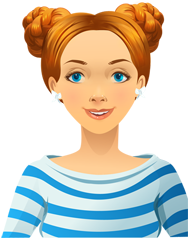
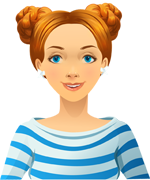
Feature #44 My Profile: menstruation period support
- BPSettingsProfileViewController: display menstruation period
- BPTextField: number property (menstruation indicator value)

diff --git a/BabyPlanner/Classes/Controller/Settings/BPSettingsProfileViewController/BPSettingsProfileViewController.m b/BabyPlanner/Classes/Controller/Settings/BPSettingsProfileViewController/BPSettingsProfileViewController.m
@@ -17,10 +17,11 @@
 #import "NSDate-Utilities.h"
 
 #define BPProfileControlsSpacing 5.f
-#define BPProfileControlsMargin 10.f
-#define BPProfileLabelWidth 90.f
+#define BPProfileControlsMargin 8.f
+#define BPProfileLabelWidth 100.f
 #define BPProfileLabelSmallWidth 40.f
 #define BPProfileTextFieldSmallWidth 100.f
+#define BPProfileMenstruationTextFieldWidth 153.f
 
 #define BPPregnancyPeriod 280
 
@@ -32,12 +33,17 @@
 @property (nonatomic, strong) BPLabel *heightLabel;
 @property (nonatomic, strong) BPLabel *kgLabel;
 @property (nonatomic, strong) BPLabel *cmLabel;
+
+@property (nonatomic, strong) BPLabel *menstruationLabel;
+@property (nonatomic, strong) BPLabel *daysLabel;
+
 @property (nonatomic, strong) BPLabel *pregnancyLabel;
 
 @property (nonatomic, strong) BPTextField *nameTextField;
 @property (nonatomic, strong) BPTextField *birthdayTextField;
 @property (nonatomic, strong) BPTextField *weightTextField;
 @property (nonatomic, strong) BPTextField *heightTextField;
+@property (nonatomic, strong) BPTextField *menstruationTextField;
 
 @property (nonatomic, strong) UIButton *pregnancyButton;
 
@@ -73,7 +79,7 @@
 	// Do any additional setup after loading the view.
 
     UIImageView *bubbleView = [[UIImageView alloc] initWithImage:[BPUtils imageNamed:@"settings_myprofile_bubble"]];
-    [self.view addSubview:bubbleView];
+//    [self.view addSubview:bubbleView];
     
     self.selectLabel = [[UILabel alloc] init];
     self.selectLabel.backgroundColor = [UIColor clearColor];
@@ -81,10 +87,10 @@
     self.selectLabel.textColor = RGB(0, 0, 0);
     self.selectLabel.textAlignment = NSTextAlignmentCenter;
     self.selectLabel.numberOfLines = 1;
-    [self.view addSubview:self.selectLabel];
+//    [self.view addSubview:self.selectLabel];
 
     self.girlView = [[UIImageView alloc] initWithImage:[BPUtils imageNamed:@"settings_myprofile_girl"]];
-    self.girlView.frame = CGRectMake(self.view.bounds.size.width - self.girlView.image.size.width, MAX(260.f, self.view.bounds.size.height - self.girlView.image.size.height), self.girlView.image.size.width, self.girlView.image.size.height);
+    self.girlView.frame = CGRectMake(floorf(self.view.bounds.size.width/2 - self.girlView.image.size.width/2), MAX(260.f, self.view.bounds.size.height - self.girlView.image.size.height), self.girlView.image.size.width, self.girlView.image.size.height);
     [self.view addSubview:self.girlView];
     
     bubbleView.frame = CGRectMake(25.f, self.girlView.frame.origin.y + 24.f, bubbleView.image.size.width, bubbleView.image.size.height);
@@ -166,6 +172,18 @@
     [self.lastMenstruationButton addTarget:self action:@selector(selectButtonTapped:) forControlEvents:UIControlEventTouchUpInside];
     top += self.lastMenstruationButton.frame.size.height + BPProfileControlsSpacing;
     
+    left = BPProfileControlsMargin;
+    self.menstruationLabel = [[BPLabel alloc] initWithFrame:CGRectMake(left, top, BPProfileLabelWidth, BPTextFieldHeigth)];
+    left += self.menstruationLabel.frame.size.width + BPProfileControlsSpacing;
+    
+    self.menstruationTextField = [[BPTextField alloc] initWithFrame:CGRectMake(left, top, BPProfileMenstruationTextFieldWidth, BPTextFieldHeigth)];
+    self.menstruationTextField.delegate = self;
+    left += self.menstruationTextField.frame.size.width + BPProfileControlsMargin;
+    
+    self.daysLabel = [[BPLabel alloc] initWithFrame:CGRectMake(left, top, self.view.frame.size.width - left - BPProfileControlsMargin, BPTextFieldHeigth)];
+    
+    top += self.menstruationLabel.frame.size.height + BPProfileControlsSpacing;
+    
     UIImage *checkBoxNormalImage = [BPUtils imageNamed:@"checkbox_normal"];
     UIImage *checkBoxSelectedImage = [BPUtils imageNamed:@"checkbox_selected"];
     
@@ -206,6 +224,10 @@
     [self.view addSubview:self.lengthOfCycleButton];
     [self.view addSubview:self.lastMenstruationButton];
     
+    [self.view addSubview:self.menstruationLabel];
+    [self.view addSubview:self.menstruationTextField];
+    [self.view addSubview:self.daysLabel];
+    
     [self.view addSubview:self.pregnancyLabel];
     [self.view addSubview:self.pregnancyButton];
     
@@ -241,6 +263,9 @@
     self.lengthOfCycleButton.subtitleLabel.text = BPLocalizedString(@"Length of my cycle");
     self.lastMenstruationButton.subtitleLabel.text = BPLocalizedString(@"Last menstruation");
 
+    self.menstruationLabel.text = BPLocalizedString(@"Menstruation");
+    self.daysLabel.text = BPLocalizedString(@"days");
+    
     self.pregnancyLabel.text = BPLocalizedString(@"Pregnancy");
 
     self.lastOvulationButton.subtitleLabel.text = BPLocalizedString(@"Ovulation");
@@ -260,6 +285,8 @@
     
     NSDate *lastMenstruationDate = sharedSettings[BPSettingsProfileLastMenstruationDateKey];
     [self.lastMenstruationButton setTitle:[BPUtils shortStringFromDate:lastMenstruationDate] forState:UIControlStateNormal];
+    
+    self.menstruationTextField.number = [sharedSettings[BPSettingsProfileMenstruationPeriodKey] unsignedIntegerValue];
     
     self.pregnancyButton.selected = [sharedSettings[BPSettingsProfileIsPregnantKey] boolValue];
     
@@ -296,6 +323,9 @@
     } else if (textField == self.heightTextField) {
         self.pickerView.valuePickerMode = BPValuePickerModeHeight;
         self.pickerView.value = sharedSettings[BPSettingsProfileHeightKey] ? : @0;
+    } else if (textField == self.menstruationTextField) {
+        self.pickerView.valuePickerMode = BPValuePickerModeMenstruationPeriod;
+        self.pickerView.value = sharedSettings[BPSettingsProfileMenstruationPeriodKey];
     }
     
     if ([self.nameTextField isFirstResponder])
@@ -354,6 +384,9 @@
             break;
         case BPValuePickerModeMenstruationLength:
             sharedSettings[BPSettingsProfileLengthOfCycleKey] = self.pickerView.value;
+            break;
+        case BPValuePickerModeMenstruationPeriod:
+            sharedSettings[BPSettingsProfileMenstruationPeriodKey] = self.pickerView.value;
             break;
         case BPValuePickerModeLastMenstruationDate:
             sharedSettings[BPSettingsProfileLastMenstruationDateKey] = self.pickerView.value;

diff --git a/BabyPlanner/Classes/View/BPTextField/BPTextField.m b/BabyPlanner/Classes/View/BPTextField/BPTextField.m
@@ -11,6 +11,12 @@
 
 //#define USE_FIXED_BOUND
 
+@interface BPTextField()
+
+@property (nonatomic, strong) UIImageView *indicatorView;
+
+@end
+
 @implementation BPTextField
 
 - (void)setup
@@ -76,5 +82,39 @@
 //    [self.textColor setFill];
 //    [self.placeholder drawInRect:rect withFont:self.font lineBreakMode:NSLineBreakByTruncatingTail alignment:self.textAlignment];
 //}
+
+- (void)setNumber:(NSUInteger)number
+{
+    DLog(@"%u", number);
+    if (_number != number) {
+        _number = number;
+
+        self.text = nil;
+        [self setNeedsLayout];
+    }
+}
+
+- (void)layoutSubviews
+{
+    [super layoutSubviews];
+    
+    if (self.number) {
+        CGFloat inset = floorf(self.frame.size.height/2 - self.indicatorView.image.size.height/2);
+        self.indicatorView.frame = CGRectMake(inset, inset, self.number * self.indicatorView.image.size.width, self.indicatorView.image.size.height);
+    }
+    else
+        _indicatorView.frame = CGRectZero;
+}
+
+- (UIImageView *)indicatorView
+{
+    if (!_indicatorView) {
+        _indicatorView = [[UIImageView alloc] init];
+        _indicatorView.image = [[BPUtils imageNamed:@"textfield_menstruation_icon"] resizableImageWithCapInsets:UIEdgeInsetsZero];
+        [self addSubview:_indicatorView];
+    }
+    
+    return _indicatorView;
+}
 
 @end

diff --git a/BabyPlanner/Classes/Model/Settings/BPLanguageManager.m b/BabyPlanner/Classes/Model/Settings/BPLanguageManager.m
@@ -42,7 +42,6 @@ NSString *const BPLanguageDidChangeNotification = @"BPLanguageDidChangeNotificat
 
 - (void)setCurrentLanguage:(NSString *)aLanguage
 {
-    DLog();
     _currentLocale = nil;
 
     BPSettings *sharedSettings = [BPSettings sharedSettings];
@@ -51,7 +50,6 @@ NSString *const BPLanguageDidChangeNotification = @"BPLanguageDidChangeNotificat
 
 - (NSLocale *)currentLocale
 {
-    DLog();
     if (!_currentLocale)
         _currentLocale = [[NSLocale alloc] initWithLocaleIdentifier:self.currentLanguage];
     
@@ -66,7 +64,6 @@ NSString *const BPLanguageDidChangeNotification = @"BPLanguageDidChangeNotificat
 
 - (NSUInteger)currentMetric
 {
-    DLog();
     BPSettings *sharedSettings = [BPSettings sharedSettings];
     if (!sharedSettings[BPSettingsMetricKey])
         sharedSettings[BPSettingsMetricKey] = @([self.supportedLanguages indexOfObject:self.currentLanguage]);
@@ -76,7 +73,6 @@ NSString *const BPLanguageDidChangeNotification = @"BPLanguageDidChangeNotificat
 
 - (void)setCurrentMetric:(NSUInteger)aMetric
 {
-    DLog();
     BPSettings *sharedSettings = [BPSettings sharedSettings];
     sharedSettings[BPSettingsMetricKey] = @(aMetric);
 }

diff --git a/BabyPlanner/Classes/View/BPLabel/BPLabel.m b/BabyPlanner/Classes/View/BPLabel/BPLabel.m
@@ -14,7 +14,7 @@
 - (void)setup
 {
     self.backgroundColor = [UIColor clearColor];
-    self.font = [UIFont fontWithName:@"HelveticaNeue" size:16];
+    self.font = [UIFont fontWithName:@"HelveticaNeue" size:15];
     self.textColor = RGB(76, 86, 108);
     self.shadowColor = RGBA(255, 255, 255, 0.75f);
     self.shadowOffset = CGSizeMake(0, 1);

diff --git a/BabyPlanner/Classes/Additions/Macros.h b/BabyPlanner/Classes/Additions/Macros.h
@@ -27,6 +27,7 @@
 
 #define BPSettingsProfileLengthOfCycleKey           @"profile.lengthOfCycle"
 #define BPSettingsProfileLastMenstruationDateKey    @"profile.lastMenstruation"
+#define BPSettingsProfileMenstruationPeriodKey      @"profile.menstruationPeriod"
 
 #define BPSettingsProfileIsPregnantKey              @"profile.isPregnant"
 

diff --git a/BabyPlanner/Classes/View/BPValuePicker/BPMenstruationPicker.m b/BabyPlanner/Classes/View/BPValuePicker/BPMenstruationPicker.m
@@ -11,7 +11,6 @@
 #define kBPMenstruationPickerMinPeriod 3
 #define kBPMenstruationPickerMaxPeriod 7
 
-
 @interface BPMenstruationPicker ()
 
 @property (nonatomic, strong) NSNumber *periodLength;

diff --git a/BabyPlanner/Classes/View/BPTextField/BPTextField.h b/BabyPlanner/Classes/View/BPTextField/BPTextField.h
@@ -13,4 +13,6 @@
 
 @interface BPTextField : UITextField
 
+@property (nonatomic, assign) NSUInteger number;
+
 @end
